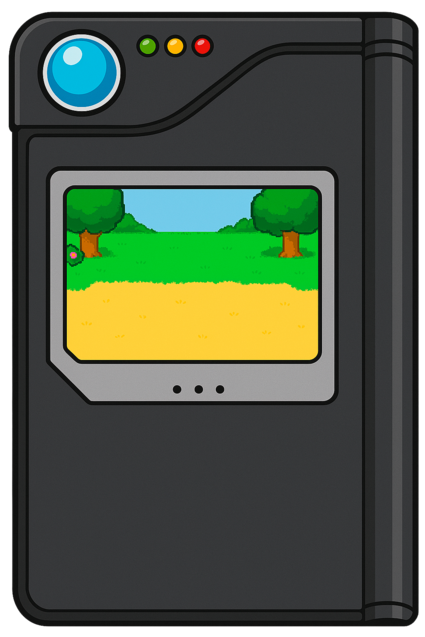
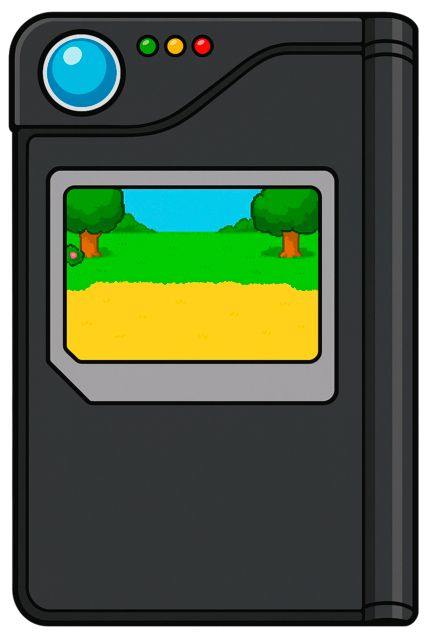
Pequenos ajustes no desenhos das pokedax

diff --git a/CSS/style.css b/CSS/style.css
@@ -38,8 +38,8 @@ position: relative;
 
 
 position: absolute;
-bottom: 58%;
-left: 32%;
+bottom: 55%;
+left: 35%;
 transform: translate(5%, 40%);
 height: 15%;
 }
@@ -50,8 +50,8 @@ height: 15%;
 
 position: absolute;
 font-weight: 600;
-color: #aaa;
-top: 54%;
+color: #ffffff;
+top: 375px;
 left: 26%;
 height: 20%;
 /* Caso nao fica bom em outra telas, mudar ⬇ fixo para (clamp)  */ 
@@ -62,7 +62,7 @@ font-size: 23px;
 .Pokemon_name { 
 
 
-color: #3a444d;
+color: #b4b4b4;
 /* (capitalize) deixa apenas a primeira letra maiuscula*/
 text-transform: capitalize;
 
@@ -71,7 +71,7 @@ text-transform: capitalize;
 .form { 
 
 position: absolute;
-top: 68%;
+top: 69%;
 left: 27%;
 }
 

diff --git a/JS/script.JS b/JS/script.JS
@@ -13,7 +13,7 @@ let searchPokemon = 398; // Inicializa com o ID do Pokémon inicial
 const fetchPokemon = async (pokemon) => {
     const APIResponse = await fetch(`https://pokeapi.co/api/v2/pokemon/${pokemon }`); //⬅Converte o nome para minúsculas
 
-    if (APIResponse.status === 200) { // Corrigido para usar ===
+    if (APIResponse.status === 200) { //⬅Verifica se a resposta da API é 200 (OK)
         const data = await APIResponse.json();
         return data;
     }
